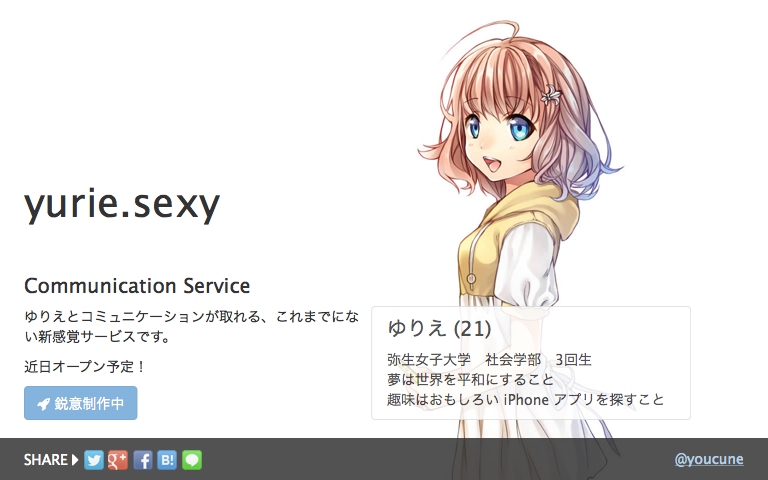
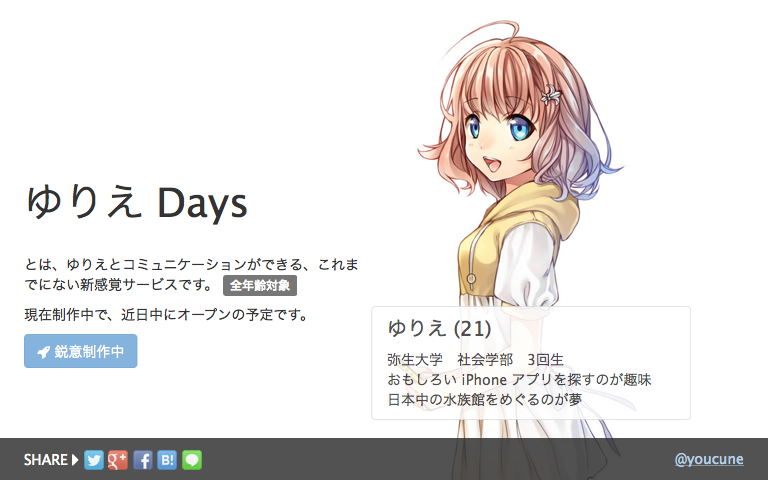
サービス名修正

Changed region(s): [[0.0312, 0.5312, 0.4688, 0.875], [0.5, 0.7188, 0.875, 0.8438], [0.0312, 0.375, 0.3438, 0.4688]]

diff --git a/source/mono/info/20140706_yurie-site-released.md b/source/mono/info/20140706_yurie-site-released.md
@@ -1,14 +1,14 @@
 ---
-title: yurie.sexy のサイトを公開しました！
+title: ゆりえ Days のサイトを公開しました！
 date: 2014-07-06
 tags: Info
 ---
 
-### yurie.sexy オープン
+### ゆりえ Days オープン
 
-本日、 [yurie.sexy](http://yurie.sexy/) という新サイトをオープンしました。
+本日、 [ゆりえ Days](http://yurie.sexy/) という新サイトをオープンしました。
 
-![yurie.sexy](/mono/info/20140706_yurie-site-released.png)
+![ゆりえ Days](/mono/info/20140706_yurie-site-released.png)
 
 中身は鋭意制作中です。
 
@@ -29,3 +29,7 @@ tags: Info
 「これまでにない（※ @youcune 調べ）新感覚コミュニケーションサービス」です。
 
 あとは開発ですね！
+
+### 07/07 追記
+
+「サービス名がちょっと……」とご意見いただいたので、「yurie.sexy」から「ゆりえ Days」に改名いたしました。
